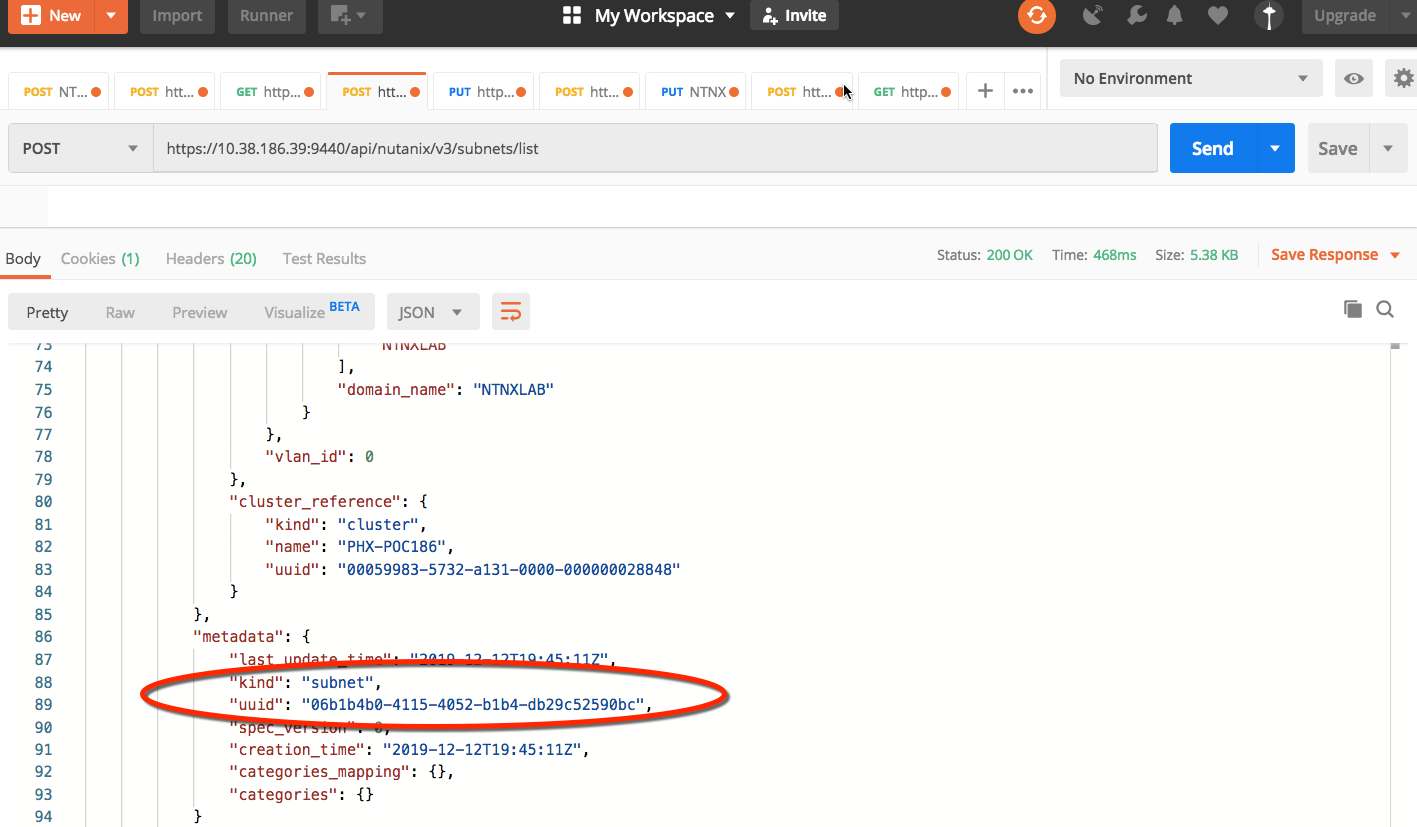
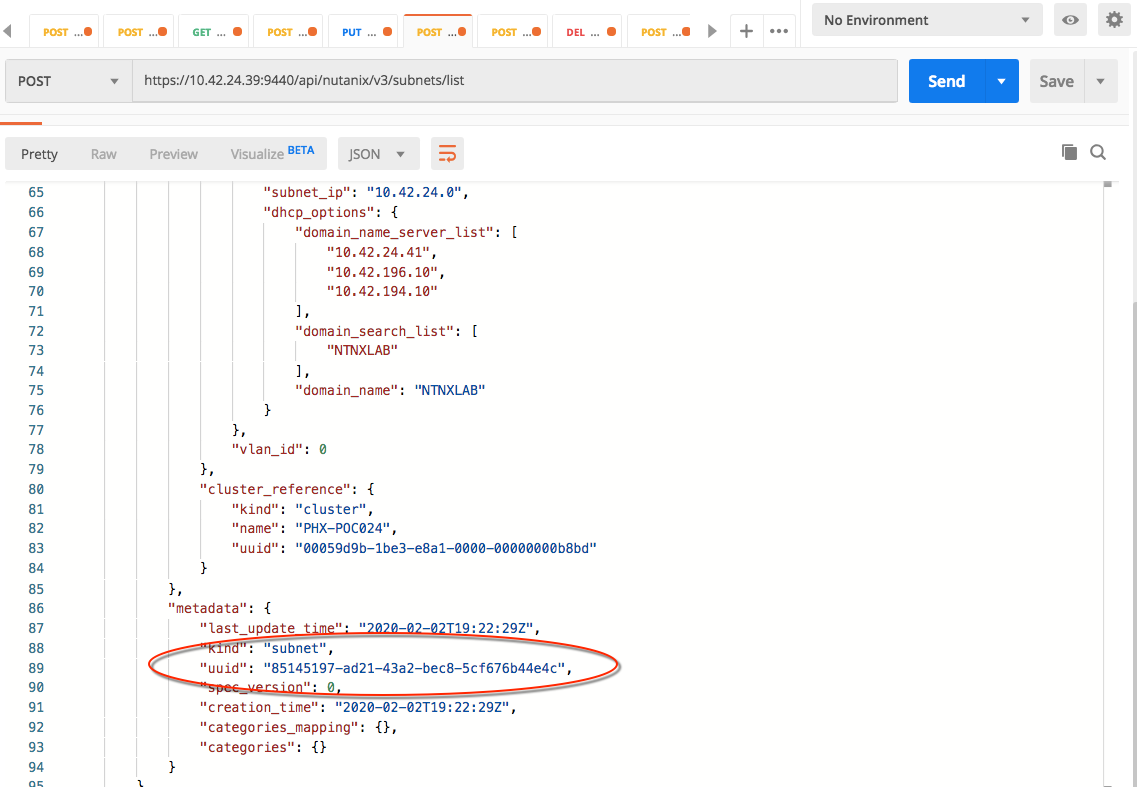
image update

diff --git a/api_vm_status/api_vm_status.rst b/api_vm_status/api_vm_status.rst
@@ -24,7 +24,7 @@ Exercise: Get the status of your VM
     - Start with the URL from the previous exercise: https://{{prism_central_ip}}:9440/api/nutanix/v3/vms
     - Append /{{uuid}} to the URL, using the uuid from the metadata section noted in the VM creation response from exercise 2
 
-    .. figure:: images/appendurl.png
+    .. figure:: images/appenduuid.png
 
 #. Configure basic authentication for this API call
 
@@ -39,4 +39,4 @@ Exercise: Get the status of your VM
     - The state attribute in the status section allows a user to know if the system has transformed the entity from its current state to the final state
     - If the state is PENDING instead of COMPLETE, click Send to get the VM again
 
-    .. figure:: images/vmstatus.png
+    .. figure:: images/getstatus.png

diff --git a/api_create_vm/api_create_vm.rst b/api_create_vm/api_create_vm.rst
@@ -76,13 +76,13 @@ Exercise: Create your own VM
           }
       }
 
-- Go to https://jsonlint.com/ - Paste the above given spec and click on “Validate Json”
-- Copy the validated spec from jsonlint and paste it in the Body section of postman.
+
 - Change the VM’s name to add your initials at the end of VM name. Replace <initial> with your initials
 - You will need to replace <clusteruuid> with your cluster UUID from exercise 1
+- Take note of your VM UUID from the response
 
 7. Click Send to submit the v3 API call
 
     v3 provides a precise HTTP status and replies with the relevant intent response
 
-    .. figure:: images/createresponse.png
+    .. figure:: images/vmuuid.png

diff --git a/api_image_list/api_image_list.rst b/api_image_list/api_image_list.rst
@@ -52,7 +52,11 @@ Exercise: List the images on the cluster
 #. Click Send to submit the v3 API call
 
   - The intent response provides an array of image resources, similar to GET on one entity
-  - Take note of the uuid for the W2019Sysprep disk image in the metadata section
-  - Take note of the uuid for the CentOS-7-x86_64-Generic disk image in the metadata section
+  - Take note of the uuid for the CentOS7 disk image in the metadata section
 
-  .. figure:: images/imageuuid.png
+    .. figure:: images/centosuuid.png
+
+
+  - Take note of the uuid for the Windows2017 disk image in the metadata section
+
+    .. figure:: images/windowsuuid.png

diff --git a/api_vm_guest_customization/api_vm_guest_customization.rst b/api_vm_guest_customization/api_vm_guest_customization.rst
@@ -170,7 +170,7 @@ Exercise: Create your Windows VM
 Required edits to above body
  - Change the VM’s name to add your initials at the end of VM name. Replace <initial> with your initials.
  - Change the subnet UUID to a valid subnet UUID on your cluster.  Replace <subnetuuid>
- - Change the disk image to the UUID of the Windows 2019 image.  Replace <diskimageuuid>
+ - Change the disk image to the UUID of the Windows 2016 image.  Replace <diskimageuuid>
 
 
 The follwoning configuration gets applied/created from the unattend.xml

diff --git a/index.rst b/index.rst
@@ -15,7 +15,6 @@
   api_vm_guest_customization/api_vm_guest_customization
   api_delete_vm/api_delete_vm
   api_vm_list/api_vm_list
-  api_launch_calm_bp/api_launch_calm_bp
 
 .. toctree::
   :maxdepth: 2
@@ -203,11 +202,3 @@ Nutanix Version Info
 - **AHV Version** - AHV 20170830.279 (5.10+)
 - **AOS Version** - 5.11
 - **PC Version** - 5.11
-
-
-
-blueprint UUID
-f2172a1c-9a66-4f12-b03c-84f17da67aba
-
-app_profile UUID
-707ec728-012f-4d4e-b163-733d16dfeb81

diff --git a/api_update_vm/api_update_vm.rst b/api_update_vm/api_update_vm.rst
@@ -76,7 +76,7 @@ Exercise: Update your VM
 
  - Replace <imageuuid> with the uuid of the CentOS image from **exercise 4**
 
-    .. figure:: images/uuidupdateimage.png
+    .. figure:: images/updatevmstate.png
 
 #. Click **Send** to submit the v3 API call
 
